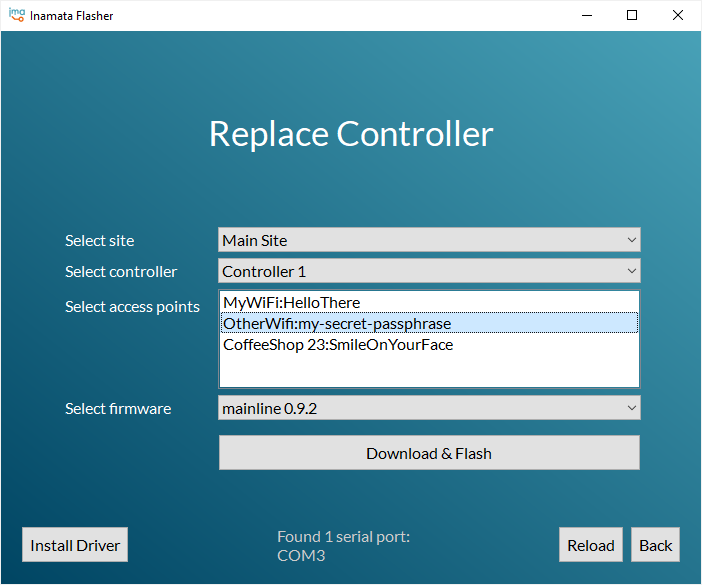
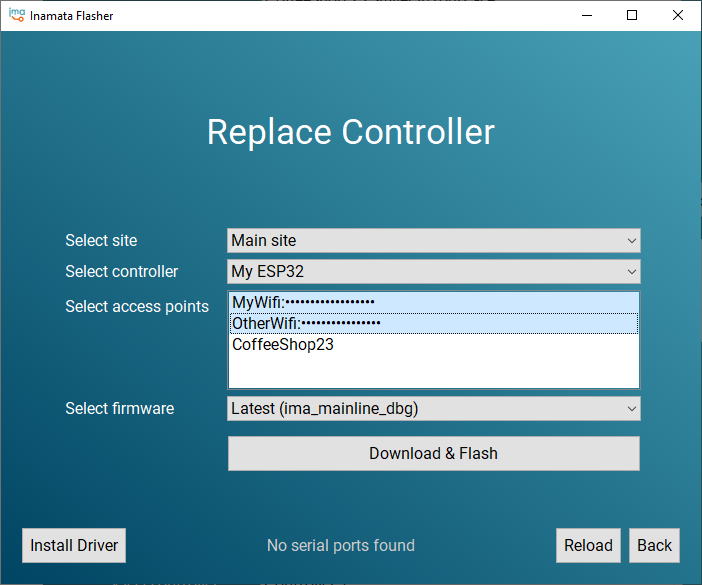
25-fix-windows-build
Why:

- Allow releases to be built for Windows
- Give a current representation of the app

This change addresses the need by:

- Fixing the build script
- Updating the screenshots

Closes #25

diff --git a/publish/build.py b/publish/build.py
@@ -38,7 +38,10 @@ def a_set_paths(project: Project):
     project.set_property("work_dirs", work_dirs)
 
     # Dist files
-    pyinstaller_target = dist_dir / "inamata_flasher"
+    if os.name == "posix":
+        pyinstaller_target = dist_dir / "inamata_flasher"
+    else:
+        pyinstaller_target = dist_dir / "inamata_flasher.exe"
     project.set_property("pyinstaller_target", pyinstaller_target)
     snap_files = [root_dir / i for i in glob.glob("inamata-flasher_*.snap")]
     project.set_property("snap_files", snap_files)
@@ -50,9 +53,9 @@ def a_set_paths(project: Project):
     project.set_property("pyinstaller_one_dir", pyinstaller_one_dir)
 
     # Inno Setup files
-    iss_file = root_dir / "publish/main.iss"
+    iss_file = root_dir / "publish" / "main.iss"
     project.set_property("iss_file", iss_file)
-    iscc_file = os.getenv("ISCC_PATH", "/c/Program Files (x86)/Inno Setup 6/ISCC.exe")
+    iscc_file = Path(os.getenv("ISCC_PATH", "/Program Files (x86)/Inno Setup 6/ISCC.exe"))
     project.set_property("iscc_file", iscc_file)
 
     # Version files
@@ -158,7 +161,10 @@ def compile_translations(project: Project, logger: Logger):
     logger.info("Compiling translations")
     root_dir: Path = project.get_mandatory_property("root_dir")
     compile_sh = root_dir / "publish" / "compile_translations.sh"
-    subprocess.run([str(compile_sh.absolute())])
+    if os.name == "posix":
+        subprocess.run([str(compile_sh.absolute())])
+    else:
+        subprocess.run(["bash", str(compile_sh.absolute())])
 
 
 def update_translations(project: Project, logger: Logger):
@@ -168,7 +174,10 @@ def update_translations(project: Project, logger: Logger):
     command = [str(update_sh.absolute())]
     if project.has_property("no_obsolete"):
         command.append("-no-obsolete")
-    subprocess.run(command)
+    if os.name == "posix":
+        subprocess.run(command)
+    else:
+        subprocess.run(["bash", *command])
 
 
 def build_linux_pyinstaller(project: Project, logger: Logger):
@@ -200,19 +209,19 @@ def build_windows_pyinstaller(project: Project, logger: Logger):
     pyinstaller_one_file = project.get_mandatory_property("pyinstaller_one_file")
     subprocess.run([*base_params, str(pyinstaller_one_file)])
 
-    versioned_name = f"inamata_flasher-{next_version}-windows-x86_64"
-    linux_name = "inamata_flasher-windows-x86_64"
+    versioned_name = f"inamata_flasher-{next_version}-windows-x86_64.exe"
+    windows_name = "inamata_flasher-windows-x86_64.exe"
     root_dir = project.get_mandatory_property("root_dir")
     pyinstaller_target: Path = project.get_mandatory_property("pyinstaller_target")
     dist_dir: Path = project.get_mandatory_property("dist_dir")
     versioned_path = dist_dir / versioned_name
-    linux_path = dist_dir / linux_name
+    windows_path = dist_dir / windows_name
     shutil.copyfile(pyinstaller_target, dist_dir / versioned_name)
-    shutil.copyfile(pyinstaller_target, dist_dir / linux_name)
+    shutil.copyfile(pyinstaller_target, dist_dir / windows_name)
 
     logger.info(f"PyInstaller dist file: {pyinstaller_target.relative_to(root_dir)}")
     logger.info(f"PyInstaller dist file: {versioned_path.relative_to(root_dir)}")
-    logger.info(f"PyInstaller dist file: {linux_path.relative_to(root_dir)}")
+    logger.info(f"PyInstaller dist file: {windows_path.relative_to(root_dir)}")
 
 
 def build_snap(project: Project, logger: Logger):
@@ -250,11 +259,8 @@ def build_inno(project: Project, logger: Logger):
     subprocess.run([*base_params, str(pyinstaller_one_dir)])
 
     iss_file: Path = project.get_mandatory_property("iss_file")
-    windows_iss_path = subprocess.run(
-        ["cygpath", "-w", iss_file.absolute()], capture_output=True
-    ).stdout.decode()
-    iscc_file = project.get_mandatory_property("iscc_file")
-    subprocess.run([str(iscc_file), windows_iss_path])
+    iscc_file: Path = project.get_mandatory_property("iscc_file")
+    subprocess.run([str(iscc_file.absolute()), str(iss_file.absolute())])
 
 
 def update_version_files(project: Project, logger: Logger):

diff --git a/doc/development.md b/doc/development.md
@@ -32,7 +32,7 @@ To generate a summary of the build, run the following command:
 
 ### Windows
 
-After [obtaining](https://comodosslstore.com/codesigning.aspx) a code signing certificate, run the following commands:
+After [obtaining](https://comodosslstore.com/codesigning.aspx) a code signing certificate and installing the [Windows sign tool](https://stackoverflow.com/a/65339931), run the following commands:
 
     poetry install
     poetry shell
@@ -40,12 +40,12 @@ After [obtaining](https://comodosslstore.com/codesigning.aspx) a code signing ce
 
 Open a command prompt terminal to sign the executables
 
-    cd C:\Program Files (x86)\Microsoft SDKs\ClickOnce\SignTool
+    cd C:\Program Files (x86)\Windows Kits\10\bin\x64\
     signtool.exe sign /sha1 "dfeb0472436c54494de4f3641d2a1d17acc8ead2" /tr http://time.certum.pl/ /td sha256 /fd sha256 /v <path-to-exe>
 
     OR
 
-    "C:\Program Files (x86)\Microsoft SDKs\ClickOnce\SignTool\signtool.exe" sign /sha1 "dfeb0472436c54494de4f3641d2a1d17acc8ead2" /tr http://time.certum.pl/ /td sha256 /fd sha256 /v <path-to-exe>
+    "c:\Program Files (x86)\Windows Kits\10\bin\x64\signtool.exe" sign /sha1 "dfeb0472436c54494de4f3641d2a1d17acc8ead2" /tr http://time.certum.pl/ /td sha256 /fd sha256 /v <path-to-exe>
 
 For instructions to set up the code signing, check the [setup instructions](https://www.files.certum.eu/documents/manual_en/Signing_with_the_use_of_jarsigner_tool_and_signtool.pdf).
 
